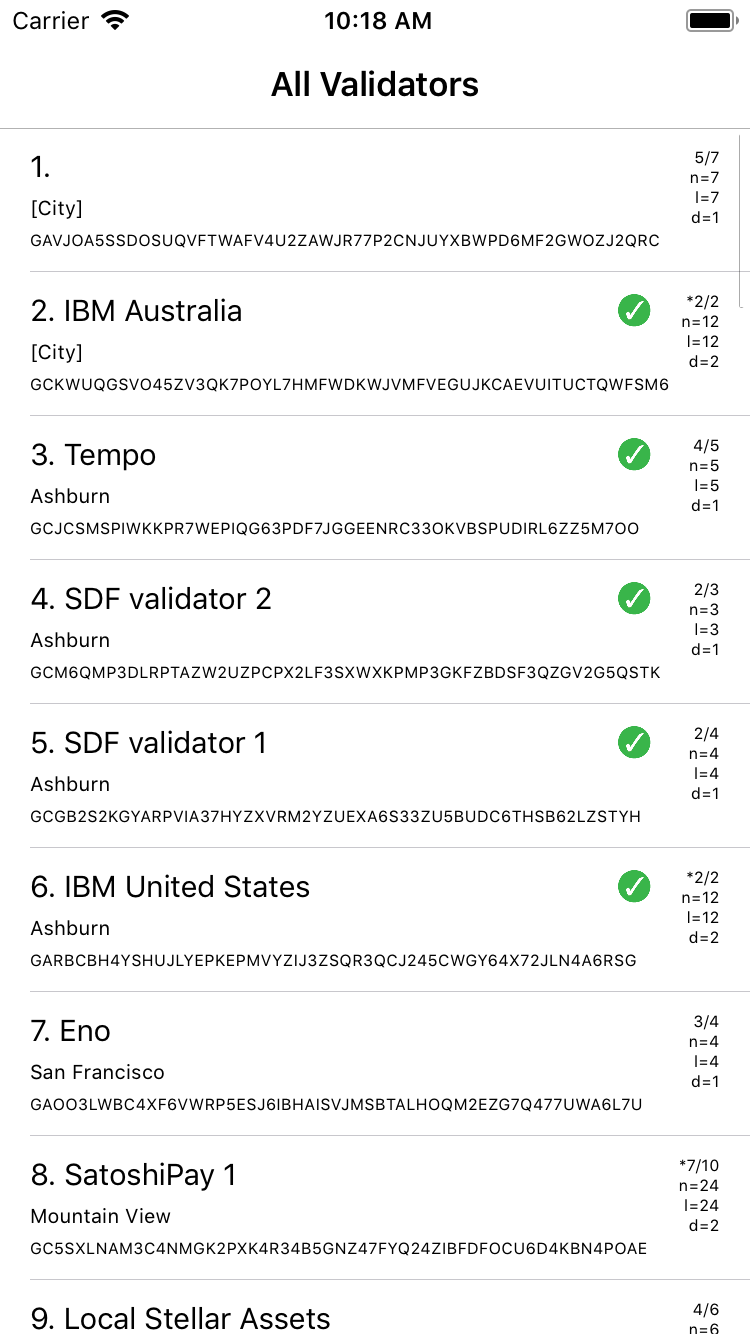
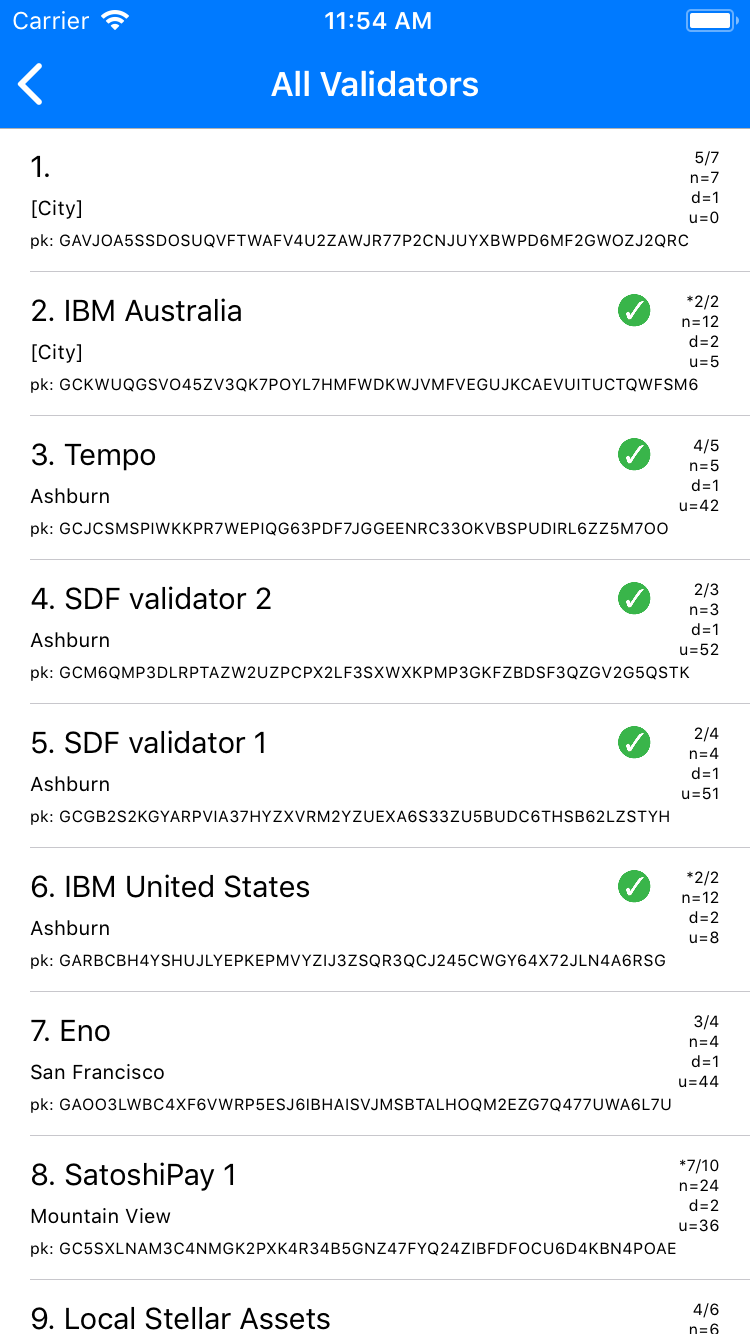
ui cleanup and screenshots

diff --git a/iOS/NodeStar/UI/Quorum/NodeView.swift b/iOS/NodeStar/UI/Quorum/NodeView.swift
@@ -7,7 +7,7 @@
 //
 
 import UIKit
-
+import FittableFontLabel
 
 protocol NodeViewDelegate {
     func nodeViewTapped(nodeView: NodeView)
@@ -25,6 +25,16 @@ class NodeView: UIView {
     private var thresholdLabel: UILabel!
     private var borderColor: UIColor = UIColor.black
     private var fillColor: UIColor = UIColor.white
+    
+    func adjustedFontSize() -> CGFloat {
+        return self.nameLabel.fontSizeThatFits(text: nameLabel.text ?? "",
+                                               maxFontSize: 14,
+                                               minFontScale: 0.3,
+                                               rectSize: nil)
+    }
+    func setFontSize(size: CGFloat) {
+        nameLabel.font = UIFont.systemFont(ofSize: size)
+    }
     
     init() {
         super.init(frame: CGRect.null)
@@ -59,7 +69,7 @@ class NodeView: UIView {
                                               toItem: self,
                                               attribute: .bottom,
                                               multiplier: 1.0,
-                                              constant: -7.0))
+                                              constant: -6.0))
         addConstraint(NSLayoutConstraint(item: thresholdLabel,
                                               attribute: .centerX,
                                               relatedBy: .equal,
@@ -72,9 +82,16 @@ class NodeView: UIView {
         nameLabel.translatesAutoresizingMaskIntoConstraints = false
         nameLabel.font = UIFont.systemFont(ofSize: 14)
         nameLabel.adjustsFontSizeToFitWidth = true
-        nameLabel.minimumScaleFactor = 0.5
+        nameLabel.minimumScaleFactor = 0.3
         nameLabel.textAlignment = NSTextAlignment.center
         addSubview(nameLabel)
+        addConstraint(NSLayoutConstraint(item: nameLabel,
+                                         attribute: .height,
+                                         relatedBy: .equal,
+                                         toItem: nil,
+                                         attribute: .notAnAttribute,
+                                         multiplier: 1.0,
+                                         constant: 22.0))
         addConstraint(NSLayoutConstraint(item: nameLabel,
                                               attribute: .top,
                                               relatedBy: .equal,
@@ -88,14 +105,14 @@ class NodeView: UIView {
                                               toItem: self,
                                               attribute: .leading,
                                               multiplier: 1.0,
-                                              constant: 4.0))
+                                              constant: 1.0))
         addConstraint(NSLayoutConstraint(item: nameLabel,
                                               attribute: .trailing,
                                               relatedBy: .equal,
                                               toItem: self,
                                               attribute: .trailing,
                                               multiplier: 1.0,
-                                              constant: -4.0))
+                                              constant: -1.0))
     }
     
     override open var intrinsicContentSize: CGSize {

diff --git a/iOS/NodeStar/UI/Quorum/QuorumVC.swift b/iOS/NodeStar/UI/Quorum/QuorumVC.swift
@@ -117,7 +117,6 @@ class QuorumVC: UIViewController, NodeViewDelegate {
     }
     
     // MARK: -- Visualize Nodes
-    
     func createRow(row: Int) {
         let padding: CGFloat = 10.0
         
@@ -220,9 +219,19 @@ class QuorumVC: UIViewController, NodeViewDelegate {
             rowStackViews[depth+1].setCustomSpacing(8, after: rowStackViews[depth+1].arrangedSubviews.last!)
         }
         
-        // Show children
-        for qn in quorumNode.quorumNodes {
+        // Show children: first half validators, all inner quorum set, second half validators
+        for (index, qn) in quorumNode.quorumNodesChildValidators().enumerated() {
+            if index <= quorumNode.quorumNodesChildValidators().count / 2 {
+                showNodes(quorumNode: qn, depth: depth+1, parentNodeView: nv)
+            }
+        }
+        for qn in quorumNode.quorumNodesChildQuorumSets() {
             showNodes(quorumNode: qn, depth: depth+1, parentNodeView: nv)
+        }
+        for (index, qn) in quorumNode.quorumNodesChildValidators().enumerated() {
+            if index > quorumNode.quorumNodesChildValidators().count / 2 {
+                showNodes(quorumNode: qn, depth: depth+1, parentNodeView: nv)
+            }
         }
     }
     
@@ -233,6 +242,22 @@ class QuorumVC: UIViewController, NodeViewDelegate {
             if let pnv: NodeView = nv.parentNodeView {
                 // Draw from pnv to nv
                 nodeLinesOverlayView.addLine(from: pnv, to: nv)
+            }
+        }
+        
+        // Update the font sizes to be consistent per row
+        for rowStackView in rowStackViews {
+            // Get the min size
+            var minRowFontSize: CGFloat = 14.0
+            for case let nv as NodeView in rowStackView.arrangedSubviews {
+                let nvAdjustedFontSize = nv.adjustedFontSize()
+                if nvAdjustedFontSize < minRowFontSize {
+                    minRowFontSize = nvAdjustedFontSize
+                }
+            }
+            // Set all in row to min size
+            for case let nv as NodeView in rowStackView.arrangedSubviews {
+                nv.setFontSize(size: minRowFontSize)
             }
         }
     }
@@ -325,7 +350,7 @@ class QuorumVC: UIViewController, NodeViewDelegate {
         
         nodesLabel.text = "n=\(validatorToShow.quorumSet.uniqueValidators.count)"
         depthLabel.text = "d=\(validatorToShow.quorumSet.maxDepth)"
-        usagesLabel.text = "r=\(validatorToShow.usagesInValidatorQuorumSets())"
+        usagesLabel.text = "u=\(validatorToShow.usagesInValidatorQuorumSets())"
         showQuorumNodeInfo(node: validatorToShow.quorumSet)
     }
     private func showQuorumNodeInfo(node: QuorumNode) {

diff --git a/iOS/NodeStar/UI/Home/HomeVC.swift b/iOS/NodeStar/UI/Home/HomeVC.swift
@@ -311,12 +311,12 @@ class HomeVC: UITableViewController, ChartViewDelegate {
     }
     private func updateSelected() {
         if ( nodesChart.highlighted.count == 1 ) {
-            nodesSelectedCell.textLabel?.text = "Validators n=\(Int(nodesChart.highlighted[0].x))"
+            nodesSelectedCell.textLabel?.text = "n=\(Int(nodesChart.highlighted[0].x)):"
             nodesSelectedCell.detailTextLabel?.text = "\(Int(nodesChart.highlighted[0].y))"
         }
         else {
             if let entry = nodesChart.barData?.dataSets[0].entryForIndex(0) {
-                nodesSelectedCell.textLabel?.text = "Validators n=\(Int(entry.x))"
+                nodesSelectedCell.textLabel?.text = "n=\(Int(entry.x)):"
                 nodesSelectedCell.detailTextLabel?.text = "\(Int(entry.y))"
             }
             else {
@@ -326,12 +326,12 @@ class HomeVC: UITableViewController, ChartViewDelegate {
         }
         
         if ( depthChart.highlighted.count == 1 ) {
-            depthSelectedCell.textLabel?.text = "Validators d=\(Int(depthChart.highlighted[0].x))"
+            depthSelectedCell.textLabel?.text = "d=\(Int(depthChart.highlighted[0].x)):"
             depthSelectedCell.detailTextLabel?.text = "\(Int(depthChart.highlighted[0].y))"
         }
         else {
             if let entry = depthChart.barData?.dataSets[0].entryForIndex(0) {
-                depthSelectedCell.textLabel?.text = "Validators d=\(Int(entry.x))"
+                depthSelectedCell.textLabel?.text = "d=\(Int(entry.x)):"
                 depthSelectedCell.detailTextLabel?.text = "\(Int(entry.y))"
             }
             else {

diff --git a/iOS/NodeStar/Models/QuorumNode.swift b/iOS/NodeStar/Models/QuorumNode.swift
@@ -43,6 +43,14 @@ protocol QuorumNode {
     // Impact Metrics
     func impactOfNode(subjectNode: QuorumNode) -> QuorumMetrics
 }
+extension QuorumNode {
+    func quorumNodesChildValidators() -> [QuorumNode] {
+        return quorumNodes.filter { $0 is QuorumValidator }
+    }
+    func quorumNodesChildQuorumSets() -> [QuorumNode] {
+        return quorumNodes.filter { $0 is QuorumSet }
+    }
+}
 
 struct QuorumMetrics {
     var combinations: Int = 0 // Combinations, given node truthiness

diff --git a/iOS/NodeStar/UI/Home/MathVC.swift b/iOS/NodeStar/UI/Home/MathVC.swift
@@ -9,7 +9,7 @@
 import UIKit
 
 class MathVC: UIViewController {
-    static let mathNames = ["Impact Metrics", "Simple Quorum", "Recursive Quorum"]
+    static let mathNames = ["Quorum Impact Metrics", "Simple Quorum", "Recursive Quorum"]
     
     @IBOutlet weak var imageView: UIImageView!
     @IBOutlet weak var heightConstraint: NSLayoutConstraint!

diff --git a/README.md b/README.md
@@ -30,13 +30,14 @@ Eventually:
 * incorporates [Stellar White Paper concepts](https://www.stellar.org/papers/stellar-consensus-protocol.pdf) like Dispensable Sets
 
 <p float="left">
-  <img src="iOS/screen-shots/1-validators.png" width="200" alt="NodeStar - Stellar Validators Screenshot" />
-  <img src="iOS/screen-shots/2-quorum-set-depth-2.png" width="200" alt="NodeStar - Quorum Set Depth 2" />
   <img src="iOS/screen-shots/3-quorum-set-depth-3.png" width="200" alt="NodeStar - Quorum Set Depth 3" />
+  <img src="iOS/screen-shots/7-quorum-metrics.png" width="200" alt="NodeStar - Quorum Metrics" />
+  <img src="iOS/screen-shots/6-math.png" width="200" alt="NodeStar - Math" />
 </p>
 <p float="left">
   <img src="iOS/screen-shots/4-summary-1.png" width="200" alt="NodeStar - Node Count Histogram" />
   <img src="iOS/screen-shots/5-summary-2.png" width="200" alt="NodeStar - Depth Histogram" />
+  <img src="iOS/screen-shots/1-validators.png" width="200" alt="NodeStar - Stellar Validators Screenshot" />
 </p>
 
 ### Install From Source
@@ -54,13 +55,13 @@ We're developing standard language and metrics for discussing the stellar networ
 
 Terms:
 
-* Effected - how often does node A have an effect on quorum set Q
-* Effect() - fraction of node truthiness combinations where node A has an effect on quorum set Q
-* Require() - fraction of node truthiness combinations where node A can veto, when Q otherwise would be true
-* Influence() - fraction of node truthiness combinations where node A can overpower, when it Q otherwise would be false
+* **Effected** - count of combinations where the selected node impacts the quorum result
+* **Affect** - how often the selected node has an impact on the quorum result
+* **Require** - how often the selected node is required to be true for quorum truths
+* **Influence** - how often the selected node influences the quorum result to true where it otherwise would have been false
 
 
-### Part 1 - Impact Metrics
+### Part 1 - Quorum Impact Metrics
 ![alt text](math/math1.tex.png "Math 1 - impact metrics")
 
 ### Part 2 - Simple Quorum
